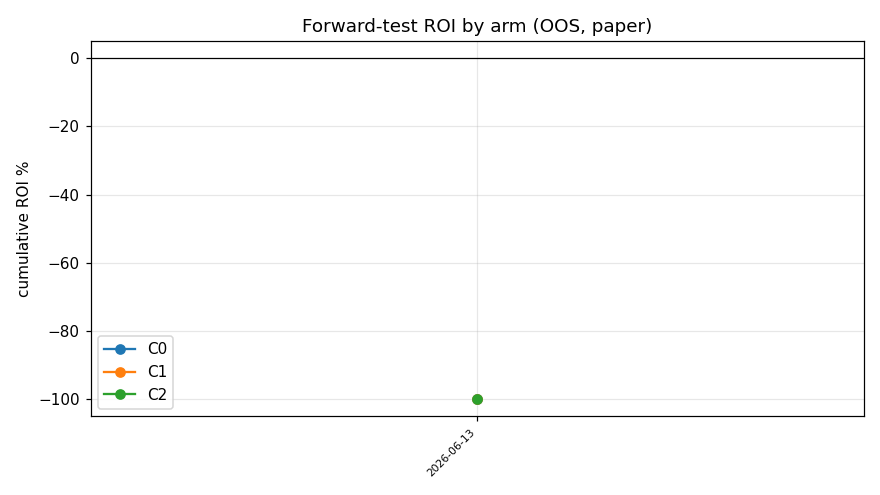
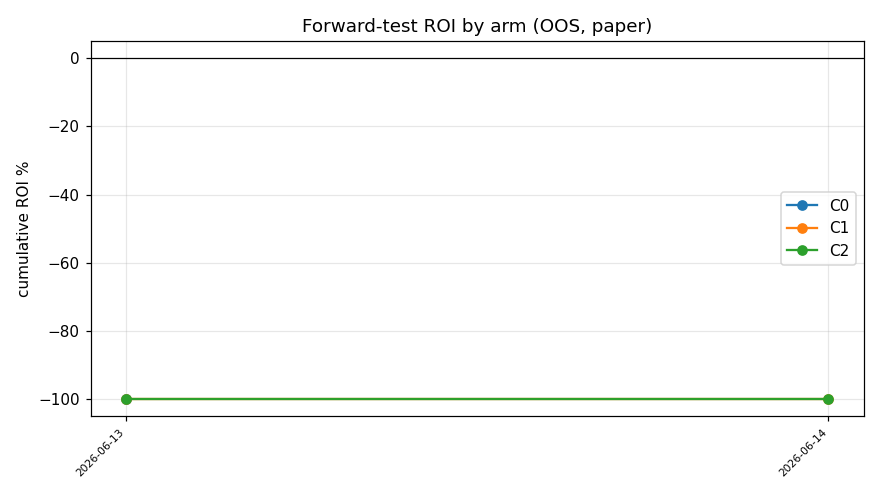
sp_drift: revert kickoff_window to 0 + document operational fidelity gap
P1 window tradeoff (2026-06-14) on 28d/950 matches: the live simultaneity
window can't satisfy both N=4's >=30-simultaneous-match gate and drift
reduction — tight (3-6h) starves autoplan (<6% of run-moments reach 30
matches), loose (>=48h) leaves residual drift ~53% (no better than no
window). No window value works, so kickoff_window_hours set back to 0.
The replay/forward-test C1/C2 (issue-pooled per-match 180min SP) measures
an idealized near-kickoff benefit the live window filter cannot deliver;
forward-test report + spec now note this. Operational redesign shelved.

diff --git a/scripts/run_sp_drift_forward.py b/scripts/run_sp_drift_forward.py
@@ -65,6 +65,11 @@ def main() -> None:
         f"C2 {status['c2_roi']*100:+.1f}%（go 需 C2>0 且 C2−C0≥5pp 且 C1−C0≥5pp）",
         "",
         "> 纸面、样本外、haircut 冻结在 GATE 1 值。样本初期很小，勿据早期数据下结论。",
+        "> ⚠ **运营口径差**：C1/C2 的 window 是按期次池化、每场各取其「距开赛 180min」的 SP；"
+        "实盘 `kickoff_window_hours` 是「距现在 N 小时内开赛」的同时性过滤，二者不等价。"
+        "经 P1 权衡分析（2026-06-14）：受 N=4 需 ≥30 场同时在池约束，任何窗口值都无法两全"
+        "（紧→autoplan 饿死、松→漂移不降），故实盘窗口已改回 0。本 test 量化的是「理想临近决策」"
+        "的上界，落地需运营机制重设计（已搁置）。",
         "\n![forward roi](figures/sp_drift_forward_roi.png)\n",
     ]
     OUT.parent.mkdir(parents=True, exist_ok=True)

diff --git a/docs/research/sp_drift_forward.md b/docs/research/sp_drift_forward.md
@@ -1,21 +1,22 @@
 # SP 漂移 Forward-Test（纸面 · OOS）
 
-run_date=2026-06-13; FORWARD_START=2026-06-13; weeks_elapsed=0.0
+run_date=2026-06-14; FORWARD_START=2026-06-13; weeks_elapsed=0.1
 
 ## 各 arm 累计（FORWARD_START 至今的样本外切片）
 
 | arm | 组合 | 命中 | 总投注 | ROI | MaxDD |
 |-----|------|------|--------|-----|-------|
-| C0 | 17 | 0 | 56 | **-100.0%** | 0% |
-| C1 | 50 | 0 | 140 | **-100.0%** | 0% |
-| C2 | 50 | 0 | 280 | **-100.0%** | 0% |
+| C0 | 0 | 0 | 0 | **+nan%** | 0% |
+| C1 | 50 | 0 | 136 | **-100.0%** | 0% |
+| C2 | 50 | 0 | 574 | **-100.0%** | 1% |
 
 ## 停止规则 / GATE-FT 状态
 
 - stop=False  reason=running  **verdict=pending**
-- C2 组合数 50/200 · 周数 0.0/12 · C2 MaxDD 0%/50%
-- ROI: C0 -100.0% / C1 -100.0% / C2 -100.0%（go 需 C2>0 且 C2−C0≥5pp 且 C1−C0≥5pp）
+- C2 组合数 50/200 · 周数 0.1/12 · C2 MaxDD 1%/50%
+- ROI: C0 +nan% / C1 -100.0% / C2 -100.0%（go 需 C2>0 且 C2−C0≥5pp 且 C1−C0≥5pp）
 
 > 纸面、样本外、haircut 冻结在 GATE 1 值。样本初期很小，勿据早期数据下结论。
+> ⚠ **运营口径差**：C1/C2 的 window 是按期次池化、每场各取其「距开赛 180min」的 SP；实盘 `kickoff_window_hours` 是「距现在 N 小时内开赛」的同时性过滤，二者不等价。经 P1 权衡分析（2026-06-14）：受 N=4 需 ≥30 场同时在池约束，任何窗口值都无法两全（紧→autoplan 饿死、松→漂移不降），故实盘窗口已改回 0。本 test 量化的是「理想临近决策」的上界，落地需运营机制重设计（已搁置）。
 
 ![forward roi](figures/sp_drift_forward_roi.png)

diff --git a/docs/superpowers/specs/2026-06-13-sp-drift-forward-test-design.md b/docs/superpowers/specs/2026-06-13-sp-drift-forward-test-design.md
@@ -101,6 +101,7 @@ collector → snapshots(beidan_live.db)
 | haircut 用 in-sample 冻结值 | 这正是 forward 要检验的——冻结即诚实 OOS；不得据 forward 重估 |
 | 纸面 PnL 忽略真实摩擦（售罄/凑整/SP 末段再动） | 标注为乐观上界；GATE-FT 通过后真实落地 spec 再校验 |
 | MTK=180 代理 vs live 窗口过滤 | §4 注明；真实落地用 live 路径复核 |
+| **运营口径差（P1 分析 2026-06-14 确认，重要）**：C1/C2 按期次池化取每场 180min-SP；实盘 `kickoff_window_hours` 是「距现在 N 小时内」的同时性过滤。受 N=4 需 ≥30 场同时在池约束，**任何窗口值都无法两全**（紧→autoplan 饿死<6% 触发率、松 48h+→残余漂移仍 ~53% 不降）。实盘窗口已改回 0 | 本 test 衡量「理想临近决策」上界，非现有 config 可达；落地需运营机制重设计（已搁置，非本 test 范围） |
 | 自身下注反身性 | 纸面不下注，无反身性；真实落地阶段再评估 |
 | 多重比较（3 arm + 每周看） | 判据事前冻结（§3）；不在 forward 期间改判据或 arm |
 
